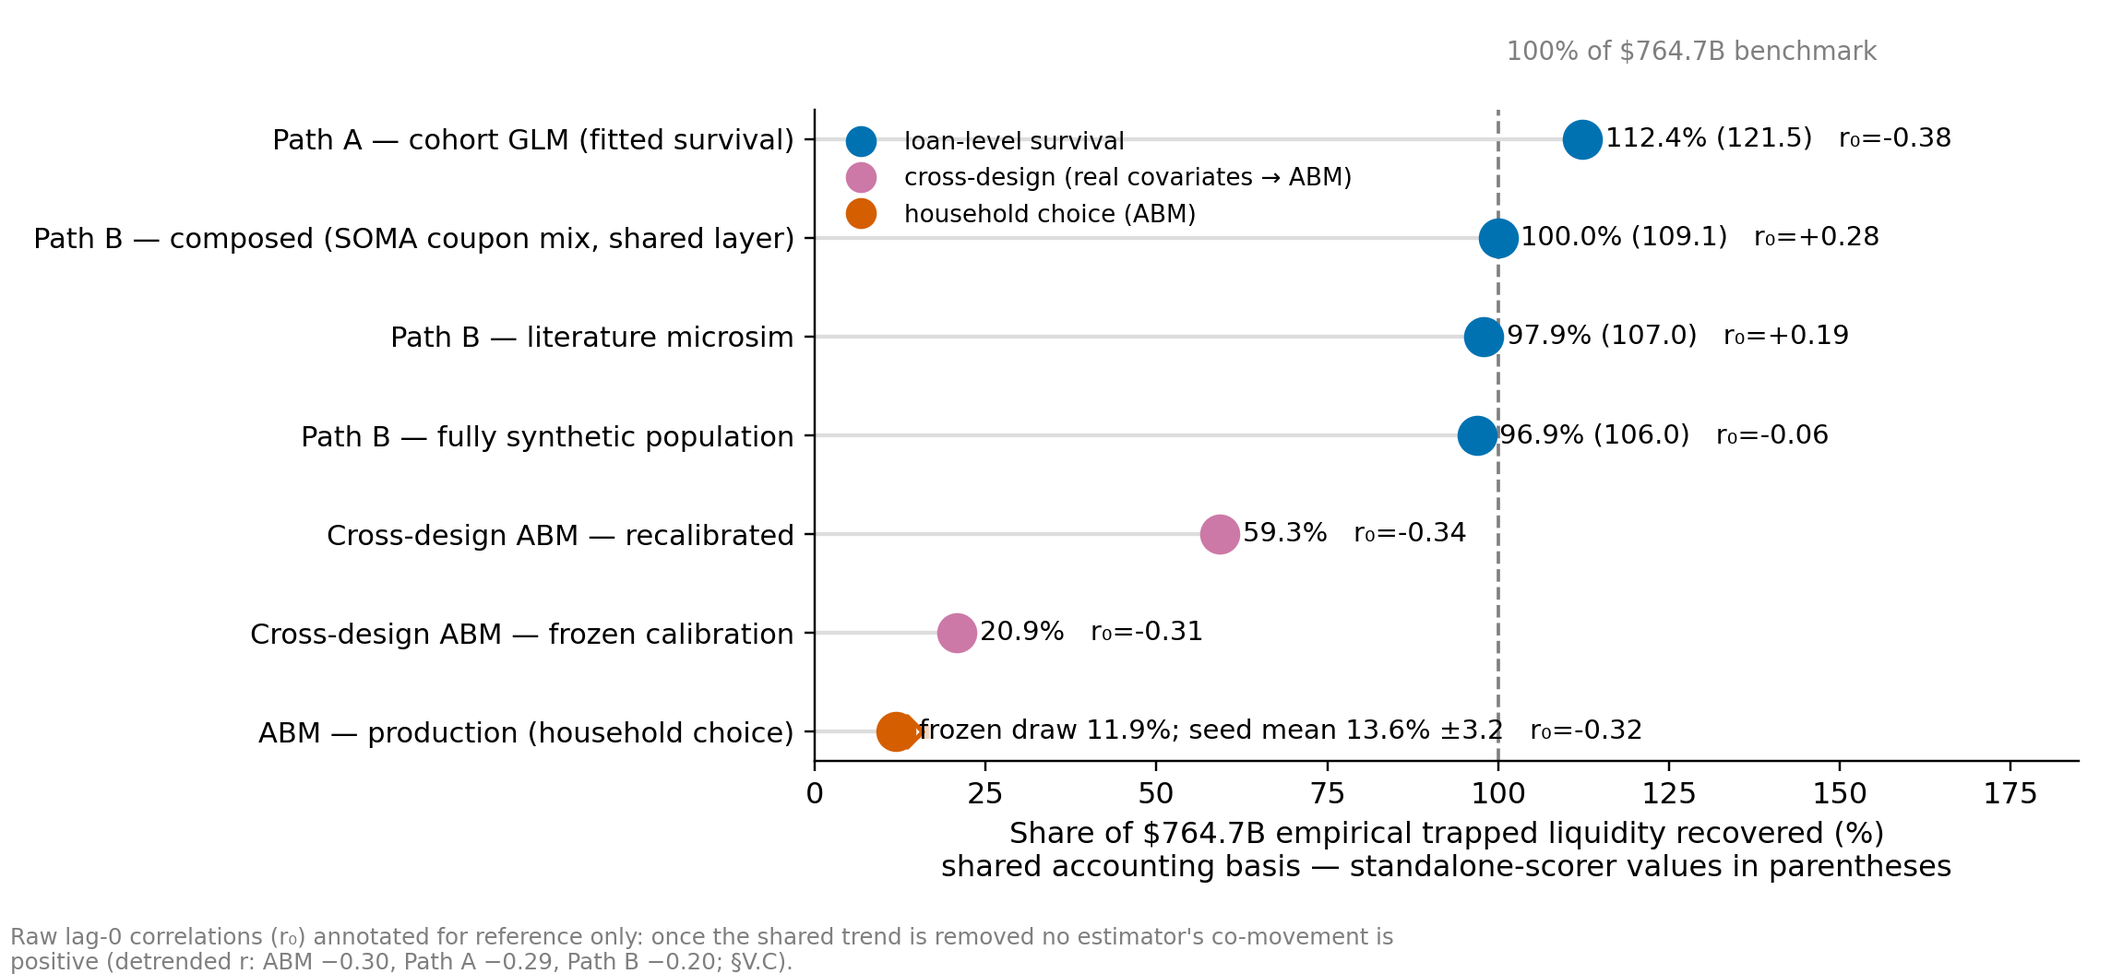
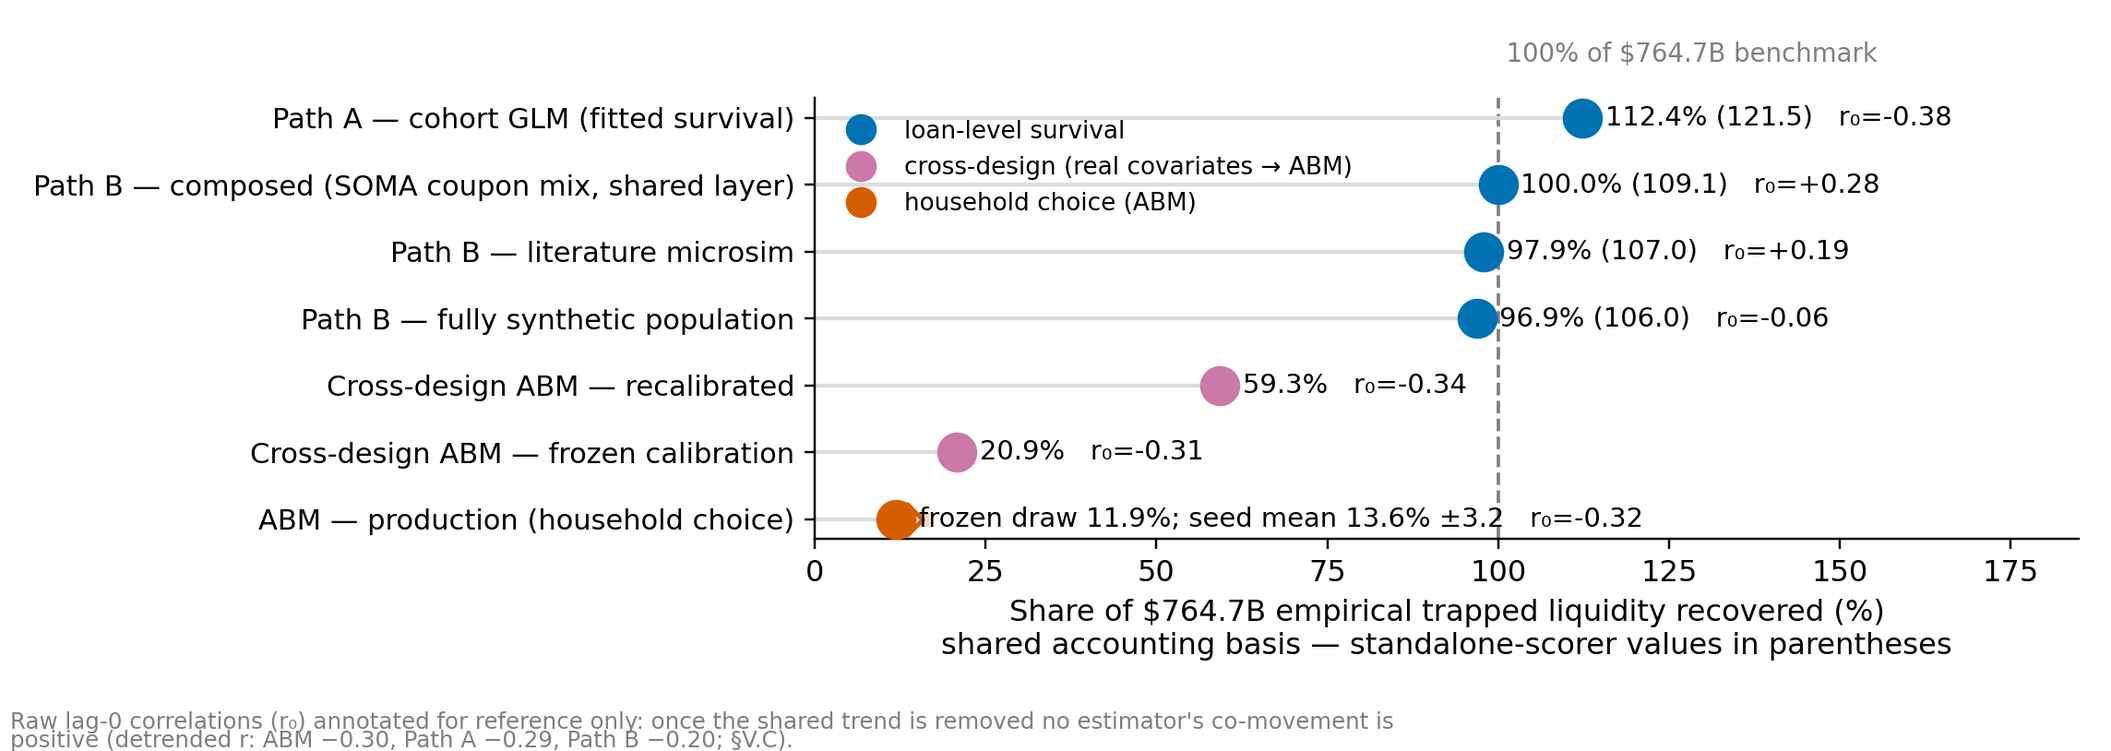
TECHNICAL.md §26.6 + figure layer: fig8-11 added (CPR surface, benchmark construction, ABM paths, marginal cells), tables to exact [H] placement, whitespace pass — 37 gates PASS

diff --git a/figures/make_figures.py b/figures/make_figures.py
@@ -97,7 +97,7 @@ def fig1_recovery_dotplot():
          FOLDIN["dollars_b"]["share_explained_pct"],
          FOLDIN["cross_correlation"]["0"], C_CHOICE, None),
     ]
-    fig, ax = plt.subplots(figsize=(10.4, 4.8))
+    fig, ax = plt.subplots(figsize=(10.4, 3.7))
     ys = np.arange(len(rows))[::-1]
     # Fifty-seed ±1 SD band for the production ABM row (headline is the seed
     # mean; the frozen draw is the reproducibility anchor).
@@ -146,7 +146,7 @@ def fig1_recovery_dotplot():
              "positive (detrended r: ABM −0.30, Path A −0.29, Path B −0.20; "
              "§V.C).",
              fontsize=8, color=C_GRAY)
-    fig.tight_layout(rect=(0, 0.055, 1, 1))
+    fig.tight_layout(rect=(0, 0.07, 1, 1))
     fig.savefig(OUT / "fig1_recovery_by_estimator.png", dpi=DPI)
     plt.close(fig)
 
@@ -195,7 +195,7 @@ def fig3_abm_waterfall():
                    FOLDIN["dollars_b"]["share_explained_pct"]))
     stages.append(("Native 15yr gate\n(Berger-run\nvariant)",
                    BERGER["dollars_b"]["share_explained_pct"]))
-    fig, ax = plt.subplots(figsize=(11.0, 5.0))
+    fig, ax = plt.subplots(figsize=(11.0, 3.9))
     xs = np.arange(len(stages))
     prev = None
     for x, (label, val) in zip(xs, stages):
@@ -226,13 +226,16 @@ def fig3_abm_waterfall():
     ax.set_xticklabels([s[0] for s in stages], fontsize=8.0)
     ax.set_ylabel(f"Share of ${BENCH_B:.1f}B benchmark explained (%)")
     ax.set_ylim(0, 112)
-    fig.text(0.005, 0.005,
+    fig.text(0.005, 0.035,
              "Behavioral extensions (stages 2-4) were pre-committed with "
              "expected directions; multi-vintage ran against its expected "
-             "direction (§VII.C). Stages 5-7 are corrections and fold-ins, "
-             "not behavioral extensions.",
+             "direction (§VII.C).",
              fontsize=8, color=C_GRAY)
-    fig.tight_layout(rect=(0, 0.045, 1, 1))
+    fig.text(0.005, 0.005,
+             "Stages 5-7 are corrections and fold-ins, not behavioral "
+             "extensions.",
+             fontsize=8, color=C_GRAY)
+    fig.tight_layout(rect=(0, 0.075, 1, 1))
     fig.savefig(OUT / "fig3_abm_waterfall.png", dpi=DPI)
     plt.close(fig)
 
@@ -341,7 +344,7 @@ def fig6_elasticity_band():
     pts = sorted(((float(k), v["trapped_b"], v["share_pct"])
                   for k, v in d["results"].items()))
     x = [p[0] for p in pts]; y = [p[1] for p in pts]
-    fig, ax = plt.subplots(figsize=(7.2, 4.2))
+    fig, ax = plt.subplots(figsize=(7.2, 3.1))
     ax.fill_between(x, y, min(y) - 12, color="#d6e6f2", alpha=0.7, zorder=0)
     ax.plot(x, y, "o-", color=C_SURV, lw=2)
     ax.scatter([6.5], [dict(zip(x, y))[6.5]], s=170, zorder=4,
@@ -440,6 +443,237 @@ def fig7_architecture():
     plt.close(fig)
 
 
+def fig8_cpr_surface():
+    """Precomputed ABM CPR surface: rate x friction heatmap + rate slices."""
+    import pandas as pd
+
+    surf = pd.read_csv(ROOT / "abm" / "abm_cpr_surface.csv")
+    s = surf[np.isclose(surf.Cohort_Coupon, 0.03) & (surf.Cohort_Term == 360)]
+    months = pd.read_csv(ROOT / "abm" / "data" / "runs" /
+                         "run-2026-07-04-15yr-foldin" / "metrics_monthly.csv")
+
+    # Velocity enters the grid only through the wait-and-see freeze, so the
+    # ten velocity points collapse to two regimes; assert rather than assume.
+    def vel_slice(v):
+        return (s[np.isclose(s.Rate_Velocity, v)]
+                .sort_values(["Friction", "Market_Rate"]))
+    base, frozen = vel_slice(0.0), vel_slice(0.02)
+    for v in np.sort(s.Rate_Velocity.unique()):
+        ref = frozen if v > 0.0151 else base
+        assert np.allclose(vel_slice(v).CPR_US.values, ref.CPR_US.values), \
+            f"velocity {v} breaks the two-regime structure"
+
+    rates = np.sort(s.Market_Rate.unique()) * 100
+    frictions = np.sort(s.Friction.unique()) * 100
+    grid = (base.pivot(index="Friction", columns="Market_Rate",
+                       values="CPR_US").to_numpy() * 100)
+
+    fig, (ax0, ax1) = plt.subplots(
+        1, 2, figsize=(10.2, 3.5), gridspec_kw={"width_ratios": [1.18, 1]})
+
+    # (left) full rate x friction grid, no-freeze regime
+    mesh = ax0.pcolormesh(rates, frictions, grid, cmap="Oranges",
+                          shading="nearest", vmin=0, vmax=grid.max())
+    cs = ax0.contour(rates, frictions, grid, levels=[10, 25, 50, 75],
+                     colors="#555555", linewidths=0.8)
+    ax0.clabel(cs, fmt="%.0f%%", fontsize=8)
+    ax0.axvline(3.0, color="white", ls=":", lw=1.4)
+    ax0.text(3.12, 17.1, "cohort coupon 3.0%", ha="left", va="top",
+             fontsize=8.5, color="white")
+    ax0.plot(months.MORTGAGE30US, months.Dynamic_Friction * 100,
+             ".", color="#1a1a1a", ms=5, zorder=5)
+    ax0.annotate("42 QT-window months\n(realized rate, friction)",
+                 xy=(months.MORTGAGE30US.median(),
+                     months.Dynamic_Friction.median() * 100),
+                 xytext=(4.35, 12.6), fontsize=9, color="#1a1a1a",
+                 arrowprops=dict(arrowstyle="->", color="#1a1a1a", lw=1.0))
+    ax0.set_xlabel("market mortgage rate (%)")
+    ax0.set_ylabel("dynamic friction (% of home value)")
+    ax0.set_title("U.S. par-payoff CPR surface")
+    cbar = fig.colorbar(mesh, ax=ax0, fraction=0.046, pad=0.03)
+    cbar.set_label("annualized CPR (%)", fontsize=9.5)
+
+    # (right) rate slices at the friction grid point nearest the window mean
+    f_near = frictions[np.argmin(np.abs(
+        frictions - months.Dynamic_Friction.mean() * 100))] / 100
+    b0 = base[np.isclose(base.Friction, f_near)].sort_values("Market_Rate")
+    b1 = frozen[np.isclose(frozen.Friction, f_near)].sort_values("Market_Rate")
+    ax1.axvspan(months.MORTGAGE30US.min(), months.MORTGAGE30US.max(),
+                color="#eeeeee", zorder=0)
+    ax1.text(months.MORTGAGE30US.mean(), 6.0, "QT-window rate range",
+             ha="center", fontsize=8.5, color=C_GRAY)
+    ax1.plot(b0.Market_Rate * 100, b0.CPR_US * 100, color=C_CHOICE, lw=2,
+             label="U.S. — no freeze (6-mo rate rise ≤ 150bp)")
+    ax1.plot(b1.Market_Rate * 100, b1.CPR_US * 100, color=C_CHOICE, lw=2,
+             ls="--", label="U.S. — wait-and-see freeze (> 150bp)")
+    ax1.plot(b0.Market_Rate * 100, b0.CPR_Danish * 100, color=C_GRAY, lw=2,
+             ls="-.", label="Danish buyback (Berger-recalibrated)")
+    ax1.axvline(3.0, color=C_GRAY, ls=":", lw=1.2)
+    ax1.set_xlabel("market mortgage rate (%)")
+    ax1.set_ylabel("annualized CPR (%)")
+    ax1.set_title(f"Rate slices at friction {f_near * 100:.1f}%")
+    ax1.set_ylim(0, b0.CPR_US.max() * 100 * 1.12)
+    ax1.legend(fontsize=8.8, loc="upper right", frameon=False)
+
+    fig.tight_layout()
+    fig.savefig(OUT / "fig8_cpr_surface.png", dpi=DPI)
+    plt.close(fig)
+
+
+def _monthly_metrics():
+    import pandas as pd
+    m = pd.read_csv(ROOT / "abm" / "data" / "runs" /
+                    "run-2026-07-04-15yr-foldin" / "metrics_monthly.csv")
+    m["date"] = pd.to_datetime(m.iloc[:, 0])
+    return m
+
+
+def fig9_benchmark_construction():
+    """Benchmark construction: monthly roll-off vs cap + cumulative wedges."""
+    m = _monthly_metrics()
+    exp = _j("hazard/data/expectation_benchmark_results.json")
+    # Both columns store outflows as negative; negate to plot runoff levels.
+    realized = -m["Actual_Monthly_Rolloff_Billions"]
+    cap = -m["QT_Target_Billions"]
+    cum_real, cum_cap = realized.cumsum(), cap.cumsum()
+    # Ex-ante projection path under the artifact's pre-committed spread rule
+    # (uniform within printed period, clipped to window); assert the derived
+    # path reproduces the artifact's window totals before displaying it.
+    annual = exp["transcription"]["printed_period_runoff_b"]
+    cum_proj = np.cumsum([annual[str(d.year)] / 12.0 for d in m["date"]])
+    assert np.isclose(cum_proj[-1], exp["window"]["projected_runoff_window_b"])
+    assert np.isclose(cum_real.iloc[-1], exp["window"]["actual_runoff_window_b"])
+    assert np.isclose(cum_cap.iloc[-1] - cum_real.iloc[-1],
+                      exp["cap_benchmark_b"])
+
+    fig, (ax0, ax1) = plt.subplots(1, 2, figsize=(10.2, 3.3))
+
+    ax0.plot(m["date"], cap, color="#333333", ls="--", lw=1.8,
+             drawstyle="steps-post", label="redemption cap")
+    ax0.plot(m["date"], realized, color="#333333", lw=1.6, marker=".",
+             ms=4.5, label="realized SOMA roll-off")
+    ax0.fill_between(m["date"], realized, cap, step=None, color="#f2d8c8",
+                     zorder=0, label="monthly shortfall")
+    ax0.axhline(0, color=C_GRAY, lw=0.8)
+    inflow = m[realized < 0]
+    ax0.scatter(inflow["date"], -inflow["Actual_Monthly_Rolloff_Billions"],
+                s=42, facecolor="white", edgecolor="#333333", zorder=5)
+    ax0.annotate("net settlement inflows", xy=(inflow["date"].iloc[-1],
+                 float(-inflow["Actual_Monthly_Rolloff_Billions"].iloc[-1])),
+                 xytext=(28, 2), textcoords="offset points", fontsize=8.5,
+                 color="#333333", va="center",
+                 arrowprops=dict(arrowstyle="->", color="#333333", lw=0.9))
+    ax0.set_ylim(top=float(cap.max()) * 1.52)
+    ax0.set_ylabel("agency MBS runoff ($B / month)")
+    ax0.set_title("Monthly roll-off vs the phased cap")
+    ax0.legend(fontsize=8.3, loc="upper left", frameon=False)
+
+    ax1.plot(m["date"], cum_cap, color="#333333", ls="--", lw=1.8,
+             label="cap allowance, cumulative")
+    ax1.plot(m["date"], cum_proj, color="#56B4E9", lw=2,
+             label="NY Fed May 2022 ex-ante projection")
+    ax1.plot(m["date"], cum_real, color="#333333", lw=2,
+             label="realized runoff")
+    x_end = m["date"].iloc[-1]
+    ax1.annotate("", xy=(x_end, cum_cap.iloc[-1]),
+                 xytext=(x_end, cum_real.iloc[-1]),
+                 arrowprops=dict(arrowstyle="<->", color=C_CHOICE, lw=1.4,
+                                 mutation_scale=9))
+    ax1.annotate(f"${exp['cap_benchmark_b']:.1f}B\nvs caps",
+                 xy=(x_end, (cum_cap.iloc[-1] + cum_real.iloc[-1]) / 2),
+                 xytext=(-64, -4), textcoords="offset points", fontsize=8.8,
+                 color=C_CHOICE)
+    ax1.annotate("", xy=(x_end, cum_proj[-1]),
+                 xytext=(x_end, cum_real.iloc[-1]),
+                 arrowprops=dict(arrowstyle="<->", color="#56B4E9", lw=1.4,
+                                 mutation_scale=8))
+    ax1.text(m["date"].iloc[-2], cum_real.iloc[-1] - 150,
+             f"${exp['e_benchmark_b']:.1f}B vs the\nex-ante projection",
+             ha="right", va="top", fontsize=8.8, color="#2f7da8")
+    ax1.set_ylabel("cumulative runoff ($B)")
+    ax1.set_title("Cumulative paths and the two wedges")
+    ax1.legend(fontsize=8.6, loc="upper left", frameon=False)
+
+    for ax in (ax0, ax1):
+        ax.tick_params(axis="x", labelrotation=30, labelsize=8.5)
+    fig.tight_layout()
+    fig.savefig(OUT / "fig9_benchmark_construction.png", dpi=DPI)
+    plt.close(fig)
+
+
+def fig10_abm_cpr_paths():
+    """Production ABM simulated vs empirical CPR paths over the QT window."""
+    m = _monthly_metrics()
+    emp_mean = FOLDIN["cpr_pct"]["empirical"]["mean"]
+    sim_mean = FOLDIN["cpr_pct"]["us_abm"]["mean"]
+    gof = FOLDIN["goodness_of_fit"]["raw"]
+
+    fig, ax = plt.subplots(figsize=(8.6, 4.2))
+    ax.plot(m["date"], m["US_CPR_Pct"], color=C_CHOICE, lw=2,
+            label="ABM simulated CPR (production fold-in run)")
+    ax.plot(m["date"], m["Empirical_CPR_Pct"], color="#333333", lw=1.7,
+            marker=".", ms=5, label="empirical CPR (SOMA back-out)")
+    ax.axhline(sim_mean, color=C_CHOICE, ls=":", lw=1.2)
+    ax.axhline(emp_mean, color="#333333", ls=":", lw=1.2)
+    ax.text(0.015, 0.975,
+            f"simulated mean {sim_mean:.2f}%  ·  empirical mean "
+            f"{emp_mean:.2f}%",
+            transform=ax.transAxes, va="top", fontsize=9, color=C_GRAY)
+    ax.text(0.015, 0.905,
+            f"lag-0 $r$ = {gof['corr']:+.3f}  ·  $R^2$ = {gof['r2']:.3f}",
+            transform=ax.transAxes, va="top", fontsize=9, color=C_GRAY)
+    ax.set_ylabel("annualized CPR (%)")
+    ax.set_ylim(0, float(m["US_CPR_Pct"].max()) * 1.2)
+    ax.tick_params(axis="x", labelrotation=30, labelsize=8.5)
+    ax.legend(fontsize=8.8, loc="upper right", frameon=False)
+    fig.tight_layout()
+    fig.savefig(OUT / "fig10_abm_cpr_paths.png", dpi=DPI)
+    plt.close(fig)
+
+
+def fig11_marginal_decomposition():
+    """Vintage x coupon group-ablation decomposition of the lock-in marginal."""
+    d = _j("hazard/data/marginal_decomposition_results.json")
+    cells = d["cells"]
+    vintages = sorted({c["vintage"] for c in cells})
+    buckets = ["<3.0%", "3.0-4.0%", ">=4.0%"]
+    grid = np.full((len(vintages), len(buckets)), np.nan)
+    share = np.full_like(grid, np.nan)
+    for c in cells:
+        i = vintages.index(c["vintage"])
+        j = buckets.index(c["coupon_bucket"])
+        grid[i, j] = c["marginal_b"]
+        share[i, j] = c["share_of_sum_pct"]
+    assert not np.isnan(grid).any() and (grid > 0).all()
+
+    fig, ax = plt.subplots(figsize=(6.8, 4.6))
+    mesh = ax.imshow(grid, cmap="Blues", aspect="auto", vmin=0)
+    for i in range(len(vintages)):
+        for j in range(len(buckets)):
+            dark = grid[i, j] > 0.6 * np.nanmax(grid)
+            ax.text(j, i, f"${grid[i, j]:.1f}B\n{share[i, j]:.1f}%",
+                    ha="center", va="center", fontsize=9,
+                    color="white" if dark else "#1a1a1a")
+    ax.set_xticks(range(len(buckets)),
+                  ["<3.0%", "3.0–4.0%", "≥4.0%"])
+    ax.set_yticks(range(len(vintages)), [str(v) for v in vintages])
+    ax.set_xlabel("coupon bucket")
+    ax.set_ylabel("origination vintage")
+    ax.set_title("Lock-in marginal by vintage × coupon cell")
+    cbar = fig.colorbar(mesh, ax=ax, fraction=0.046, pad=0.03)
+    cbar.set_label("marginal contribution ($B)", fontsize=9.5)
+    g3 = d["gates"]["G3_additivity"]
+    fig.text(0.005, 0.01,
+             f"Cells sum to \\${g3['sum_cells_b']:.1f}B of the "
+             f"\\${g3['committed_total_b']:.1f}B paired-run marginal "
+             f"(residual {g3['residual_frac_of_total'] * 100:.1f}%); "
+             "cell value and share of cell sum shown.",
+             fontsize=8, color=C_GRAY)
+    fig.tight_layout(rect=(0, 0.045, 1, 1))
+    fig.savefig(OUT / "fig11_marginal_decomposition.png", dpi=DPI)
+    plt.close(fig)
+
+
 GENERATORS = {
     "fig1": fig1_recovery_dotplot,
     "fig2": fig2_ccf,
@@ -448,6 +682,10 @@ GENERATORS = {
     "fig5": fig5_cross_design_bars,
     "fig6": fig6_elasticity_band,
     "fig7": fig7_architecture,
+    "fig8": fig8_cpr_surface,
+    "fig9": fig9_benchmark_construction,
+    "fig10": fig10_abm_cpr_paths,
+    "fig11": fig11_marginal_decomposition,
 }
 
 if __name__ == "__main__":

diff --git a/TECHNICAL.md b/TECHNICAL.md
@@ -2538,6 +2538,73 @@ figures no longer drift from their citing text — each renders on its
 first-mention page or the next (verified in the built PDF), at the cost
 of short pages where a figure breaks (73pp).
 
+### 26.6 Figure pass: the 3D grid rendered, plus three artifact-backed additions (author-directed, 2026-07-16)
+
+Author-directed: the manuscript described the ABM's three-dimensional CPR
+grid (§II.B) without showing it, and a multi-agent audit of the remaining
+sections (6 section scanners → 18 proposals, 15 artifact-feasible, judged
+by a 3-lens reader-value / economy / integrity panel) found three more
+places where a claim carried entirely in prose had a committed artifact
+behind it. Four figures added, all generated by `figures/make_figures.py`
+from committed artifacts only (no hardcoded result literals; the existing
+figure-script gates cover the new generators automatically):
+
+- `fig8_cpr_surface` (fig:cprsurface, §II.B): the precomputed CPR surface
+  at the 3.0% thirty-year SOMA cohort — rate × friction heatmap
+  (no-freeze regime) with the 42 realized QT-window (rate, friction)
+  months overlaid, plus rate slices showing the wait-and-see freeze and
+  the Berger-recalibrated near-flat Danish curve. The generator asserts
+  the grid's two-regime velocity structure (velocity enters only through
+  the freeze), so a future spec change breaks the build loudly.
+  Provenance: the U.S. 3.0%/360 slice is git-identical across 5cf33a3
+  (fold-in), bc07d32 (native 15yr), and d3e21f6 (Berger), so the slice
+  shown is exactly what the frozen production run interpolated; the
+  Danish column is the Berger production spec.
+- `fig9_benchmark_construction` (fig:benchmark, §II.D): monthly roll-off
+  vs the phased cap (net-inflow months circled) and cumulative paths with
+  the $764.7B / $87.8B wedges; the projection's monthly path is derived
+  under the pre-committed uniform-spread rule and asserted in-generator
+  against `expectation_benchmark_results.json` window totals (realized,
+  cap, and projection cumulatives all assert-checked). Caption avoids a
+  second `run` citation so the exactly-one run-citation gates stay green.
+- `fig10_abm_cpr_paths` (fig:abmpaths, §III.A): simulated vs empirical
+  CPR paths (fold-in run); means, lag-0 r, and R² annotated from the
+  frozen manifest.
+- `fig11_marginal_decomposition` (fig:marginalcells, §V): vintage ×
+  coupon group-ablation cells from `marginal_decomposition_results.json`;
+  footer states the additivity residual (1.0%).
+
+Duplicate-merging: the audit's two §II.D expectations proposals and the
+policy-section cap-vs-projection proposal collapse into fig9's right
+panel; the marginal-across-constructions forest plot and the remaining
+shortlist items were declined as redundant with existing tables (the
+calibration box, tab:bases) or as single-number figures. All 37 liveness
+gates PASS; PDF rebuilt with zero undefined references; md/txt editions
+regenerated (converter's element-count self-check updated to figures=12);
+UPLOAD_ROUND11 bundle restaged.
+
+Same-day follow-up (author-directed): tables extended to the figures'
+exact-placement convention and a whitespace pass run over the result. All
+15 `\begin{table}` placements converted from `[!htbp]`/`[t]` floats to
+`[H]` — this fixes the drift the author flagged (tab:uncertainty rendered
+after §V.E's opening despite being discussed before it; tab:estimators
+two pages past its summary paragraph; both now render in source order at
+their home paragraphs). Two float-era `\newpage` leftovers after tab:wal
+and tab:delinq removed (each was orphaning most of a page). A PyMuPDF
+whitespace detector (content-bottom per page vs text height) then drove
+figure fits: canvases compressed rather than print-width shrunk so fonts
+keep size (fig1 4.8→3.7in, fig3 5.0→3.9in, fig6 4.2→3.1in, fig8
+4.1→3.5in, fig9 4.0→3.3in heights; fig2 → 0.9\textwidth, fig9 →
+0.94\textwidth; fig8/fig9/fig1 captions tightened; fig3's pre-existing
+clipped one-line footer split into two lines). Result: fig8 fits its
+§II.B page, fig9 its §III.D page, fig1+fig3 share the §IV page, fig2 and
+fig6 close their gaps; manuscript 74pp (vs 75pp before the table
+conversion and 78pp immediately after it). Remaining short pages are all
+table-inherent (the full-page tab:danish, tab:bootstrap, tab:estimators
+under exact placement), the deliberate pre-appendix `\newpage`, and the
+final page. Gates 37/37 PASS; zero undefined references; editions and
+bundle refreshed.
+
 ## Appendix A — File Map
 
 ```

diff --git a/figures/README.md b/figures/README.md
@@ -23,6 +23,10 @@ purple = cross-design hybrids).
 | `fig5_cross_design.png` | Cross-design variants as paired panels: (a) level recovery with the pre-registered 50% threshold and 10–35% synthetic band; (b) lag-0 path correlation — **all negative**. Footer is neutral (post-freeze pass). | `abm/data/cross_design_results.json` (synthetic-control lag-0 r from the `run-2026-07-04-15yr-foldin` manifest) |
 | `fig6_elasticity_band.png` | Path B trapped liquidity across the Liebersohn–Rothstein P_q band (5.5–7.7%), central 6.5% marked, benchmark line. | `hazard/data/extension_risk_band_literature.json` |
 | `fig7_architecture.png` | One-panel roadmap: data sources → three estimators → shared macro accounting → $764.7B benchmark, with the two robustness cross-links (cross-design §15, symmetric companion §18). Footer states the standalone-scorer production headlines with basis. | schematic; footer from the `run-2026-07-04-15yr-foldin` and `run-2026-07-14-pathA-seasonal` manifests and `extension_risk_results_literature_microsim.json` |
+| `fig8_cpr_surface.png` | The precomputed ABM CPR surface (§II.B tractability machinery made visible): rate × friction heatmap of the U.S. par-payoff surface (no-freeze regime, 3.0%/30yr SOMA cohort) with the 42 realized QT-window (rate, friction) months overlaid, plus rate slices showing the wait-and-see freeze (the grid's only velocity structure — asserted in the generator) and the near-flat Berger-recalibrated Danish counterfactual. The U.S. slice is git-verified identical across the fold-in freeze, native-15yr, and Berger commits; Danish column is the Berger production spec. | `abm/abm_cpr_surface.csv` (committed surface, HEAD), `run-2026-07-04-15yr-foldin/metrics_monthly.csv` (`MORTGAGE30US`, `Dynamic_Friction` window overlay) |
+| `fig9_benchmark_construction.png` | The empirical benchmark made visible (§II.D): monthly realized SOMA roll-off vs the phased cap (net-inflow months circled) and cumulative paths — cap allowance, realized runoff, NY Fed May 2022 ex-ante projection — with the $764.7B cap-relative and $87.8B expectations-based wedges annotated. The projection's monthly path is derived under the pre-committed uniform-spread rule and asserted in-generator against the frozen expectations-run window totals. | `run-2026-07-04-15yr-foldin/metrics_monthly.csv` (`Actual_Monthly_Rolloff_Billions`, `QT_Target_Billions`), `hazard/data/expectation_benchmark_results.json` |
+| `fig10_abm_cpr_paths.png` | Production ABM simulated CPR vs the empirical SOMA back-out over the 42-month QT window (frozen fold-in run): the 2×-level, wrong-shape mismatch behind the negative lag-0 r and R²; means and statistics annotated from the manifest. | `run-2026-07-04-15yr-foldin/metrics_monthly.csv` (`Empirical_CPR_Pct`, `US_CPR_Pct`), fold-in manifest |
+| `fig11_marginal_decomposition.png` | Group-ablation decomposition of the +$70.3B lock-in marginal over the vintage × coupon grid (§V): all 15 cells positive, 2020–21 rows carry 72% of the cell sum, no cell above 21%; footer states the 1.0% additivity residual. | `hazard/data/marginal_decomposition_results.json` |
 
 ## `ccf_data.json`
 
